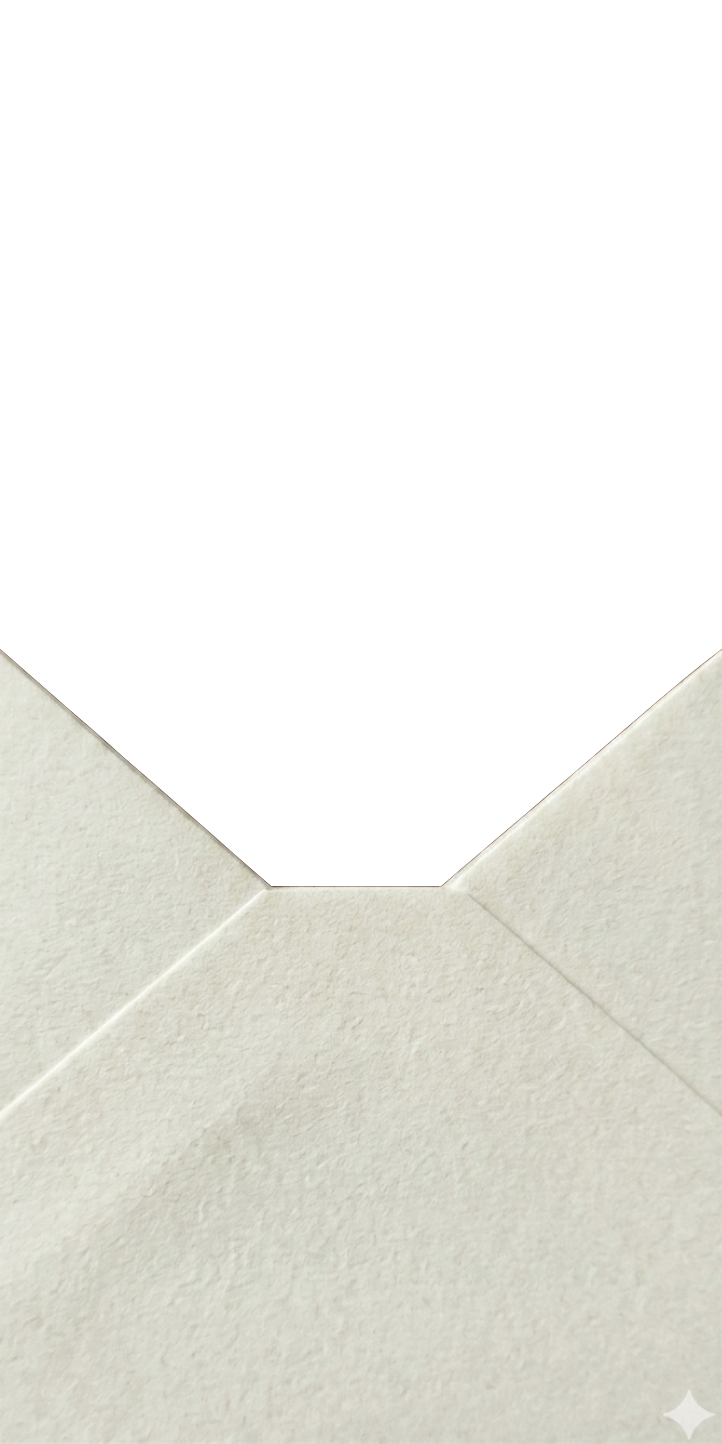
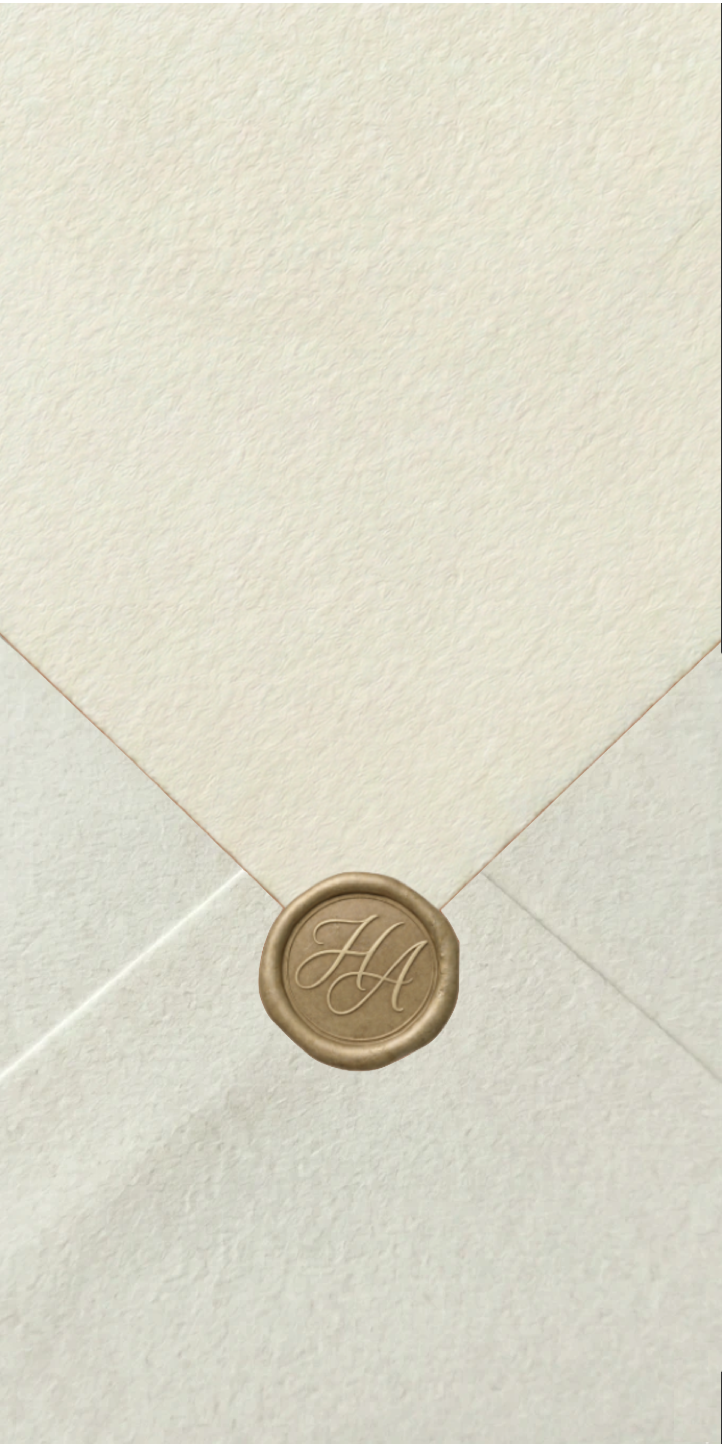
feat(envelope): optimize images to WebP and adjust envelope positioning
- Remove PNG sources, keep only WebP for envelopes
- Remove cachet_cire assets (unused)
- Shift envelope flap and bottom upward for better visual alignment
- Update new envelope images with correct dimensions

diff --git a/src/components/Envelope.css b/src/components/Envelope.css
@@ -28,7 +28,7 @@
 .envelope {
     position: relative;
     /* 🔴 [NE PAS TOUCHER] Nécessaire pour placer les éléments absolus à l'intérieur */
-    width: 100%;
+    width: 110%;
     /* 🔴 [NE PAS TOUCHER] Largeur maximum calculée par rapport au container */
     height: 100dvh;
     /* 🟢 [MODIFIABLE] Hauteur de l'enveloppe */
@@ -56,6 +56,8 @@
     /* 🔴 [NE PAS TOUCHER] Évite des espaces fantômes habituels sur les images inline */
     transform-origin: top center;
     /* 🔴 [NE PAS TOUCHER] Point de pivot de l'animation (le rabat tourne depuis le haut) */
+    transform: translateY(-12%);
+    /* 🟢 [MODIFIABLE] Décalage vertical du rabat vers le haut */
 
     /* 🟢 [MODIFIABLE] Temps d'ouverture. (0.9s = 900ms). Si changé, adapter le JS dans Envelope.jsx */
     transition: transform 1.8s ease-in-out, filter 1.8s ease-in-out;
@@ -70,8 +72,8 @@
 /* Ouverture : le bas du rabat se souleve legerement, le haut reste fixe */
 .envelope--opening .envelope__flap,
 .envelope--revealing .envelope__flap {
-    /* 🟢 [MODIFIABLE] Angle de rotation à l'ouverture (15degsoulève légèrement pour laisser passer la lettre) */
-    transform: rotateX(25deg);
+    /* 🟢 [MODIFIABLE] Angle de rotation à l'ouverture (25deg soulève légèrement pour laisser passer la lettre) */
+    transform: translateY(-15%) rotateX(25deg);
 
     /* 🟢 [MODIFIABLE] Ombre quand l'enveloppe est ouverte (souvent plus faible car l'image pivote) */
     filter: drop-shadow(0 -7px 9px rgba(0, 0, 0, 0.1));
@@ -91,6 +93,8 @@
     /* 🔴 [NE PAS TOUCHER] Structure standard pour une image conteneur */
     z-index: 1;
     /* 🔴 [NE PAS TOUCHER] Assure que le bas est en-dessous du rabat (z-index 2) */
+    transform: translateY(-8%);
+    /* 🟢 [MODIFIABLE] Décalage vertical du bas vers le haut */
 }
 
 /* Indication de tap ("Appuyez pour ouvrir") */
